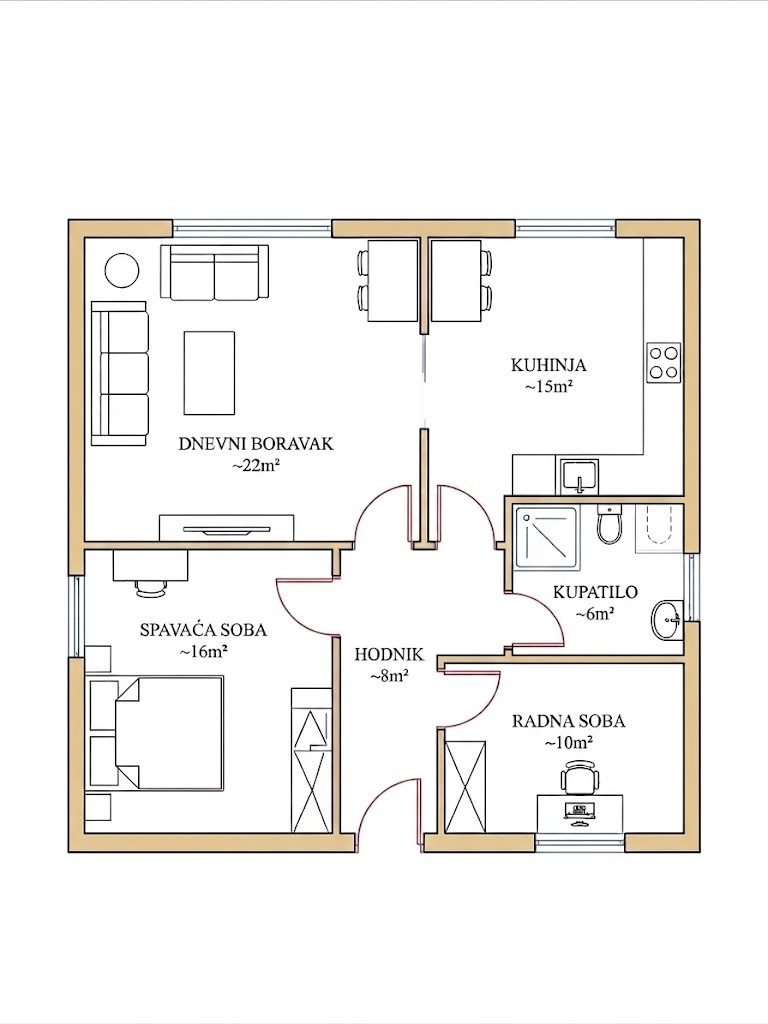
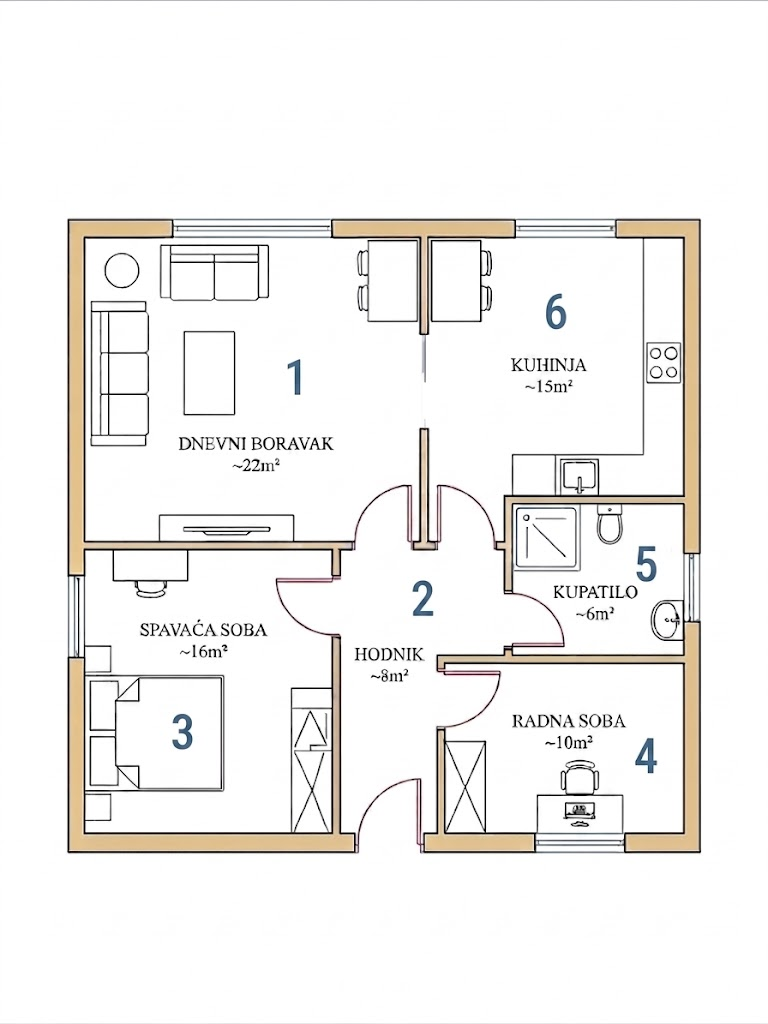
Dodan CSS kod za galeriju, image map i popravljena HTML struktura sadrzaj.html

diff --git a/css/tptpstil.css b/css/tptpstil.css
@@ -7,10 +7,20 @@
     --svijetla-boja: #f8f4ec;
 
     /*Fontovi i razmaci*/
-    --glavni-font: 'Segoe UI', Tahoma, sans-serif;
+    --glavni-font: 'Georgia', 'Times New Roman', sans-serif;
     --razmak: 20px;
 }
 
+@keyframes pojavljivanje {
+    from {
+        opacity: 0;
+        transform: translateY(20px);
+    }
+    to {
+        opacity: 1;
+        transform: translateY(0);
+    }
+}
 * {
     margin: 0;
     padding: 0;
@@ -92,13 +102,6 @@ header>ul a:hover {
     gap: 20px;
     min-height: 100vh;
 }
-.lijevo {
-    flex: 0 0 250px;
-    background-color: var(--svijetla-boja);
-    padding: 20px;
-    border-radius: 8px;
-    border-right: 1px solid #a39e9e;
-}
 .sredina {
     flex: 1;
     padding: 40px 5%;
@@ -112,6 +115,7 @@ header>ul a:hover {
     font-size: 30px;
     letter-spacing: 2px;
     margin-bottom: 10px;
+    animation: pojavljivanje 2.0s ease-out;
 }
 .sredina h3{
     color: var(--tekst-boja);
@@ -124,76 +128,113 @@ header>ul a:hover {
 table {
     border-collapse: collapse;
     width: 100%;
-    background-color: var(--svijetla-boja);
-    table-layout: fixed;
+    max-width: 1000px;
+    margin-left: auto;
+    margin-right: auto;
+    margin-bottom: 30px;
+    background-color: transparent;
+    table-layout: auto;
 }
-th, td {
-    border: 1px solid #3b302380;
-    padding: 5px;
-    text-align: center;
-}
-
-.desno{
-    flex: 0 0 280px;
-    background-color: var(--svijetla-boja);
-    padding: 20px;
-    display: flex;
-    flex-direction: column;
-    gap: 20px;
-    border-left: 1px solid #a39e9e;
-    border-radius: 8px;
-
-}
-.desno h3{
-    color: var(--glavna-boja);
-    text-transform: uppercase;
-    font-size: 20px;
-    margin-bottom: 15px;
-}
-.desno ul{
-    list-style: none;
-    padding: 0;
-}
-.desno ul li{
-    font-size: 15px;
+th {
+    background-color: #f7f0e5;
     color: var(--tekst-boja);
-    margin-bottom: 10px;
-    line-height: 1.4;
-}
-.desno ul li strong {
-    color: var(--glavna-boja);
-    font-weight: 600;
-}
-.desno p{
+    border: 1px solid #dcdcdc;
+    padding: 12px 10px;
+    text-align: left;
+    text-transform: uppercase;
+    letter-spacing: 1px;
     font-size: 13px;
+}
+td{
+    padding: 10px;
+    border:1px solid #dcdcdc;
+    color: #444;
+    font-size: 14px;
+    text-align: left;
+}
+table tr:nth-child(even){
+    background-color: #fafafa;
+}
+table tr:hover{
+    background-color: #f1ede7;
+    transition: 0.3s;
+}
+.galerija-tlocrt{
+    display: flex;
+    gap: 40px;
+    align-items: flex-start;
+    margin-top: 40px;
+    width: 100%;
+}
+
+#galerija {
+    flex: 1;
+}
+.galerija {
+    display: grid;
+    grid-template-columns: repeat(3, 1fr);
+    gap: 20px;
+}
+.galerija img {
+    width: 100%;
+    max-width: 200px;
+    aspect-ratio: 1 / 1;
+    object-fit: cover;
+    border-radius: 5px;
+    transition: transform 0.3s ease;
+}
+.galerija img:hover{
+    transform:scale(1.05);
+    cursor: pointer;
+}
+
+area {
+    cursor: pointer;
+}
+
+#tlocrt {
+    flex: 1;
+    text-align: center;
+    position: relative;
+    z-index: 10;
+}
+#tlocrt img {
+    max-width: 300px;
+    width: 100%;
+    height: auto;
+    border: 2px solid #f0f0f0;
+    box-shadow: 0 5px 15px rgba(0,0,0,0.1);
+    margin: 10px auto;
+}
+#tlocrt p {
     font-style: italic;
     color: #666;
     margin-top: 15px;
-    border-top: 1px solid #070707;
-    padding-top: 10px;
 }
-.lijevo {
+
+aside.lijevo {
     background-color: var(--svijetla-boja);
     padding: 20px;
-    border-radius: 8px;
+    border-right:  1px solid #a39e9e;
 }
-.lijevo h3 {
+aside.lijevo h3 {
     color: var(--glavna-boja);
-    font-size: 20px;
+    font-size: 15px;
     margin-bottom: 15px;
     text-transform: uppercase;
 }
-.lijevo ul {
+aside.lijevo ul {
+    font-size: 13px;
     list-style: none;
 }
-.lijevo a {
+aside.lijevo a {
     text-decoration: none;
     color: var(--tekst-boja);
     display: block;
     padding: 6px 0;
     transition: 0.3s ease;
 }
-.lijevo a:hover {
+aside.lijevo a:hover {
     color: var(--glavna-boja);
     padding-left: 10px;
 }

diff --git a/sadrzaj.html b/sadrzaj.html
@@ -29,8 +29,9 @@
     </header>
 
     <div class="stranica-sadrzaj">
-    <nav class="lijevo">
+    <aside class="lijevo">
         <h3>Sadržaj stranice</h3>
+        <nav>
         <ul>
             <li><a href="#o-projektu">O projektu</a></li>
             <li><a href="#specifikacije">Specifikacije</a></li>
@@ -40,7 +41,8 @@
             <li><a href="#cilj-projekta">Cilj projekta</a></li>
             <li><a href="#vrh">Skoči na vrh</a></li>
         </ul>
-    </nav>
+        </nav>
+    </aside>
 
     <main class="sredina">
     <article id="o-projektu">
@@ -100,9 +102,10 @@
         </table>
     </section>
 
-    <section id="galerija">
+    <div class="galerija-tlocrt">
+        <section id="galerija">
         <h3>GALERIJA</h3>
-        <div class="gallery">  
+        <div class="galerija">  
           <picture> 
             <source srcset="images/dnevni_boravak.webp" type="image/webp">
             <img src="images/dnevni_boravak.jpg" alt="Dnevni boravak">
@@ -117,18 +120,19 @@
 
     <section id="tlocrt">
         <h3>TLOCRT STANA</h3>
-        <img src="images/tlocrt.jpg" usemap="#stanmap" alt="Tlocrt stana A101">
+        <img src="images/tlocrt.jpg" usemap="#stanmap" alt="Tlocrt stana A101"> <!--Slika geenerisana putem AI-->
         
         <map name="stanmap">
-        <area shape="circle" coords="310,366,20" href="#specifikacije" alt="Dnevni boravak">
-        <area shape="circle" coords="560,286,20" href="#specifikacije" alt="Kuhinja">
-        <area shape="circle" coords="257,736,20" href="#specifikacije" alt="Spavaća soba">
-        <area shape="circle" coords="607,563,20" href="#specifikacije" alt="Kupatilo">
-        <area shape="circle" coords="425,586,20" href="#specifikacije" alt="Hodnik">
-        <area shape="circle" coords="640,756,20" href="#specifikacije" alt="Radna soba">
+            <area shape="circle" coords="105,135,25" href="#specifikacije" alt="Dnevni boravak">
+            <area shape="circle" coords="198,110,25" href="#specifikacije" alt="Kuhinja">
+            <area shape="circle" coords="66,260,25" href="#specifikacije" alt="Spavaća soba">
+            <area shape="circle" coords="237,200,25" href="#specifikacije" alt="Kupatilo">
+            <area shape="circle" coords="152,213,25" href="#specifikacije" alt="Hodnik">
+            <area shape="circle" coords="240,271,25" href="#specifikacije" alt="Radna soba">
         </map>
         <p>Kliknite na brojeve na tlocrtu za detalje o svakoj prostoriji.</p>
       </section>
+    </div>
 
     <section id="kategorije">
     <h3>KATEGORIJE I USLUGE</h3>
@@ -165,22 +169,10 @@
       <a href="#vrh" class="vrh-link">Skoči na vrh</a>
     </div>
     </main>
-    <div class="desno">
-    <aside class="informacije">
-      <h3>DETALJI PROJEKTA</h3>
-      <ul>
-        <li><strong>ID:</strong> A101-2026</li>
-        <li><strong>Tip:</strong> Stambeni prostor</li>
-        <li><strong>Lokacija:</strong> Tuzla, Centar</li>
-        <li><strong>Vrijeme:</strong> 9 sedmica</li>
-      </ul>
-      <p><i>*Sve specifikacije su rađene prema zahtjevima klijenta.</i></p>
-    </aside>
-
-    </div>
     </div>
 
     <footer>
+        <p>Članovi tima: Amina Imamović, Amina Ibrahimović i Amina Fazlić </p>
       <p>&copy; 2026 Lumina Design. Sva prava zadržana.</p>
     </footer>
 